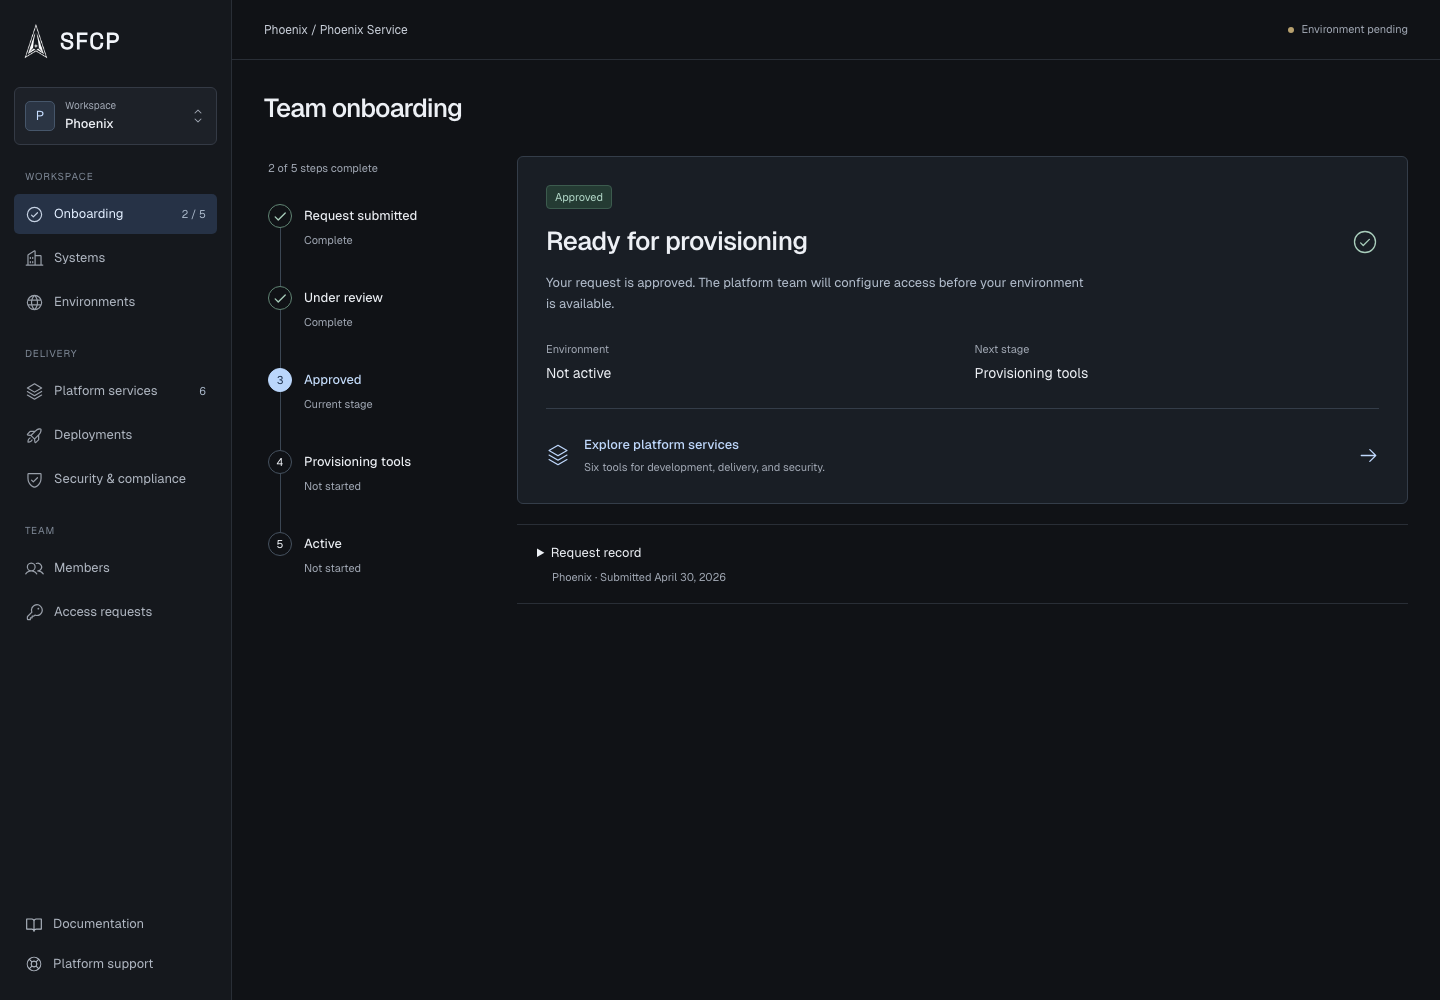
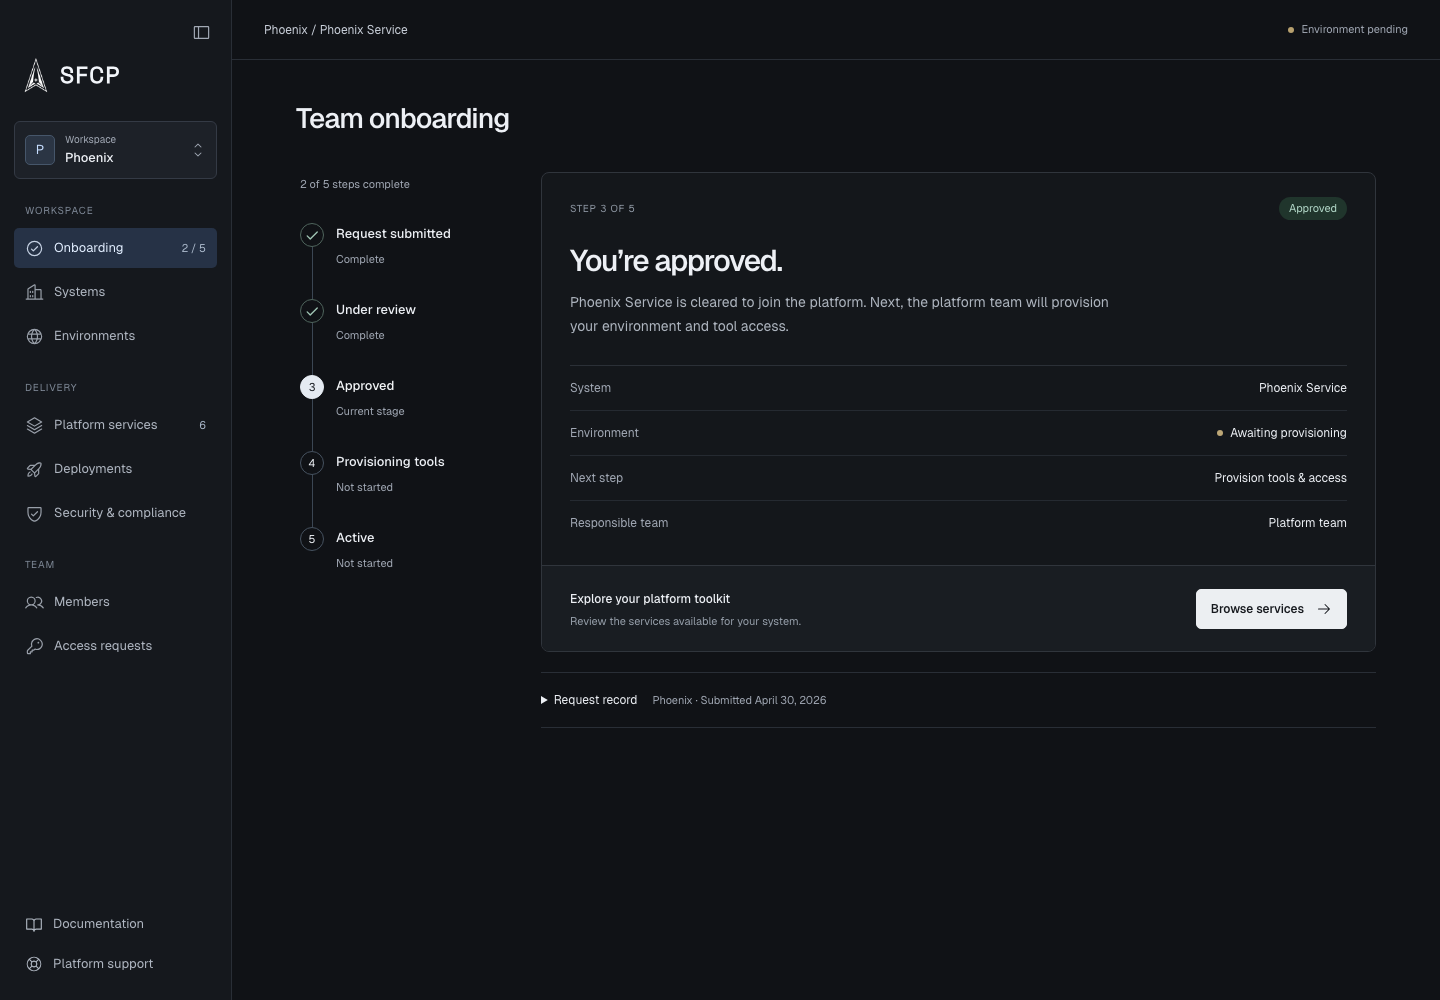
Refine onboarding and add collapsible SFCP navigation

diff --git a/src/components/studies/space-force.tsx b/src/components/studies/space-force.tsx
@@ -6,7 +6,7 @@ import Image from "next/image";
 import {
   ArrowRight, Check, CheckCircle, Cube, CaretUpDown, ArrowUpRight, Plus,
   GitBranch, ListChecks, MagnifyingGlass, Package, ShieldCheck,
-  Stack, Buildings, Globe, RocketLaunch, Users, Key, Lifebuoy, BookOpen, X,
+  Stack, Buildings, Globe, RocketLaunch, Users, Key, Lifebuoy, BookOpen, X, SidebarSimple,
 } from "@phosphor-icons/react";
 import styles from "./space-force.module.css";
 
@@ -28,6 +28,7 @@ const services = [
 ];
 
 export function SpaceForceStudy({ screen }: { screen: string }) {
+  const [collapsed, setCollapsed] = useState(false);
   const navDialog = useRef<HTMLDialogElement>(null);
   const [navDestination, setNavDestination] = useState("");
   const openDestination = (name: string) => { setNavDestination(name); navDialog.current?.showModal(); };
@@ -48,7 +49,8 @@ export function SpaceForceStudy({ screen }: { screen: string }) {
 
   return (
     <div className={styles.workspace}>
-      <aside className={styles.sidebar}>
+      <aside className={`${styles.sidebar} ${collapsed ? styles.sidebarCollapsed : ""}`}>
+        <button className={styles.collapseToggle} aria-label={collapsed ? "Expand sidebar" : "Collapse sidebar"} aria-expanded={!collapsed} onClick={()=>setCollapsed(!collapsed)} title={collapsed ? "Expand sidebar" : "Collapse sidebar"}><SidebarSimple size={19}/></button>
         <Link href="/studies/space-force/readiness" className={styles.brand} aria-label="Space Force Cloud Platform onboarding">
           <span className={styles.deltaMark}><Image src="/artifacts/redesigned/ussf-official-logo.png" alt="United States Space Force" width={200} height={272} className={styles.officialLogo} priority /></span>
           <span>SFCP</span>
@@ -67,18 +69,18 @@ export function SpaceForceStudy({ screen }: { screen: string }) {
         </div>
         <nav className={styles.navigation} aria-label="Platform workspace">
           <p className={styles.navLabel}>Workspace</p>
-          <Link href="/studies/space-force/readiness" className={!isServices ? styles.navActive : ""} aria-current={!isServices ? "page" : undefined}><CheckCircle size={19} />Onboarding<span className={styles.navCount}>2 / 5</span></Link>
-          <button onClick={()=>openDestination("Systems")}><Buildings size={19}/>Systems</button>
-          <button onClick={()=>openDestination("Environments")}><Globe size={19}/>Environments</button>
+          <Link title="Onboarding" aria-label="Onboarding" href="/studies/space-force/readiness" className={!isServices ? styles.navActive : ""} aria-current={!isServices ? "page" : undefined}><CheckCircle size={19} /><span className={styles.navText}>Onboarding</span><span className={styles.navCount}>2 / 5</span></Link>
+          <button title="Systems" aria-label="Systems" onClick={()=>openDestination("Systems")}><Buildings size={19}/><span className={styles.navText}>Systems</span></button>
+          <button title="Environments" aria-label="Environments" onClick={()=>openDestination("Environments")}><Globe size={19}/><span className={styles.navText}>Environments</span></button>
           <p className={styles.navLabel}>Delivery</p>
-          <Link href="/studies/space-force/services" className={isServices ? styles.navActive : ""} aria-current={isServices ? "page" : undefined}><Stack size={19} />Platform services<span className={styles.navCount}>6</span></Link>
-          <button onClick={()=>openDestination("Deployments")}><RocketLaunch size={19}/>Deployments</button>
-          <button onClick={()=>openDestination("Security & compliance")}><ShieldCheck size={19}/>Security &amp; compliance</button>
+          <Link title="Platform services" aria-label="Platform services" href="/studies/space-force/services" className={isServices ? styles.navActive : ""} aria-current={isServices ? "page" : undefined}><Stack size={19} /><span className={styles.navText}>Platform services</span><span className={styles.navCount}>6</span></Link>
+          <button title="Deployments" aria-label="Deployments" onClick={()=>openDestination("Deployments")}><RocketLaunch size={19}/><span className={styles.navText}>Deployments</span></button>
+          <button title="Security & compliance" aria-label="Security & compliance" onClick={()=>openDestination("Security & compliance")}><ShieldCheck size={19}/><span className={styles.navText}>Security &amp; compliance</span></button>
           <p className={styles.navLabel}>Team</p>
-          <button onClick={()=>openDestination("Members")}><Users size={19}/>Members</button>
-          <button onClick={()=>openDestination("Access requests")}><Key size={19}/>Access requests</button>
+          <button title="Members" aria-label="Members" onClick={()=>openDestination("Members")}><Users size={19}/><span className={styles.navText}>Members</span></button>
+          <button title="Access requests" aria-label="Access requests" onClick={()=>openDestination("Access requests")}><Key size={19}/><span className={styles.navText}>Access requests</span></button>
         </nav>
-        <div className={styles.supportNav}><button onClick={()=>openDestination("Documentation")}><BookOpen size={18}/>Documentation</button><button onClick={()=>openDestination("Platform support")}><Lifebuoy size={18}/>Platform support</button></div>
+        <div className={styles.supportNav}><button title="Documentation" aria-label="Documentation" onClick={()=>openDestination("Documentation")}><BookOpen size={18}/><span className={styles.navText}>Documentation</span></button><button title="Platform support" aria-label="Platform support" onClick={()=>openDestination("Platform support")}><Lifebuoy size={18}/><span className={styles.navText}>Platform support</span></button></div>
 
       </aside>
 
@@ -86,7 +88,7 @@ export function SpaceForceStudy({ screen }: { screen: string }) {
       <div className={styles.main}>
         <div className={styles.contextBar}><span>Phoenix <span>/</span> Phoenix Service</span><span className={styles.environmentStatus}><span />Environment pending</span></div>
 
-        <main id="main" className={styles.content}>
+        <main id="main" className={`${styles.content} ${!isServices ? styles.onboardingContent : ""}`}>
           <div className={styles.pageTitle}>
             <div><h1>{isServices ? "Platform services" : "Team onboarding"}</h1>{isServices && <p>Connect your system to platform-managed delivery and security tools.</p>}</div>
           </div>
@@ -135,22 +137,20 @@ export function SpaceForceStudy({ screen }: { screen: string }) {
 
               <div className={styles.readinessLayout}>
                 <section className={styles.openDetail} aria-live="polite">
-                  <div className={styles.statusLabel}>{selectedStage === 2 ? "Approved" : currentStage.state}</div>
+                  <div className={styles.stageDetailTop}><span>STEP {selectedStage + 1} OF 5</span><span className={styles.statusLabel}>{selectedStage === 2 ? "Approved" : currentStage.state}</span></div>
                   <div className={styles.detailHeading}>
-                    <h2>{selectedStage === 2 ? "Ready for provisioning" : currentStage.title}</h2>
-                    {selectedStage === 2 && <CheckCircle size={28} weight="light" aria-label="Approved" />}
+                    <h2>{selectedStage === 2 ? "You’re approved." : currentStage.title}</h2>
+
                   </div>
-                  <p className={styles.detailIntro}>{selectedStage === 2 ? "Your request is approved. The platform team will configure access before your environment is available." : currentStage.description}</p>
+                  <p className={styles.detailIntro}>{selectedStage === 2 ? "Phoenix Service is cleared to join the platform. Next, the platform team will provision your environment and tool access." : currentStage.description}</p>
                   {selectedStage === 2 ? <>
                     <dl className={styles.accessFacts}>
-                      <div><dt>Environment</dt><dd>Not active</dd></div>
-                      <div><dt>Next stage</dt><dd>Provisioning tools</dd></div>
+                      <div><dt>System</dt><dd>Phoenix Service</dd></div>
+                      <div><dt>Environment</dt><dd><span className={styles.pendingDot}/>Awaiting provisioning</dd></div>
+                      <div><dt>Next step</dt><dd>Provision tools &amp; access</dd></div>
+                      <div><dt>Responsible team</dt><dd>Platform team</dd></div>
                     </dl>
-                    <Link className={styles.serviceShortcut} href="/studies/space-force/services">
-                      <Stack size={24} weight="light" />
-                      <span><strong>Explore platform services</strong><span>Six tools for development, delivery, and security.</span></span>
-                      <ArrowRight size={21} />
-                    </Link>
+                    <div className={styles.onboardingAction}><div><strong>Explore your platform toolkit</strong><p>Review the services available for your system.</p></div><Link href="/studies/space-force/services">Browse services<ArrowRight size={16}/></Link></div>
                   </> : <div className={styles.otherStage}><p>{currentStage.detail}</p><p>{currentStage.next}</p></div>}
                 </section>
 

diff --git a/src/components/studies/space-force.module.css b/src/components/studies/space-force.module.css
@@ -37,3 +37,11 @@
 /* Align the step label with its marker, leaving the state on a second row. */
 .journey{padding:4px 0;border:0;border-radius:0;background:transparent}.journeyHeader{padding:0 4px;margin-bottom:20px}.stage{grid-template-rows:24px auto;align-content:start;row-gap:0;min-height:82px;background:none;border:0;color:inherit}.stageNumber{grid-column:1;grid-row:1;background:#101216}.stage strong{grid-column:2;grid-row:1;align-self:center;line-height:1.3;font-size:13px}.stageState{grid-column:2;grid-row:2;margin-top:4px;font-size:11px}.stageRail{top:32px;bottom:-8px}.requestRecord{background:transparent;border-left:0;border-right:0;border-radius:0}.pageTitle{margin-bottom:30px}
 @media(max-width:800px){.journey{padding:0}.stage{min-height:68px}.onboardingLayout{gap:28px}}
+
+/* Railway's focused setup panel and Vercel's compact project metadata. */
+.onboardingContent{max-width:1160px;padding:40px 40px 64px}.onboardingContent .pageTitle{margin-bottom:36px}.onboardingContent .pageTitle h1{font-size:28px;letter-spacing:-.035em}.onboardingContent .onboardingLayout{grid-template-columns:205px minmax(0,1fr);gap:40px}.onboardingContent .journeyHeader{margin-bottom:22px}.onboardingContent .stage{min-height:76px;padding-inline:4px}.onboardingContent .stage strong{font-weight:500}.onboardingContent .stageSelected strong{color:#f3f5f7}.onboardingContent .stageCurrent .stageNumber{background:#e5ebf2;border-color:#e5ebf2;color:#12161b}.onboardingContent .stageComplete .stageNumber{background:#101216;border-color:#4f655d;color:#a1c7b6}.onboardingContent .openDetail{padding:0;background:#14171b;border:1px solid #30353c;border-radius:8px;overflow:hidden}.stageDetailTop{display:flex;justify-content:space-between;align-items:center;padding:24px 28px 0;color:#9099a5;font-size:10px;letter-spacing:.08em}.stageDetailTop .statusLabel{margin:0;font-size:11px;letter-spacing:0;border:0;background:#20352c;border-radius:20px;padding:3px 10px}.onboardingContent .detailHeading{padding:22px 28px 0}.onboardingContent .detailHeading h2{font-size:30px;font-weight:550;letter-spacing:-.045em}.onboardingContent .detailIntro{padding:0 28px;margin:12px 0 26px;font-size:14px;line-height:1.7;max-width:620px;color:#aeb5bf}.onboardingContent .accessFacts{display:block;margin:0 28px;padding:0;border-top:1px solid #2b3037;border-bottom:0}.onboardingContent .accessFacts>div{display:flex;justify-content:space-between;align-items:center;gap:18px;padding:13px 0;border-bottom:1px solid #252a31}.onboardingContent .accessFacts>div:last-child{border:0}.onboardingContent .accessFacts dt{font-size:12px;margin:0}.onboardingContent .accessFacts dd{font-size:12px;display:flex;align-items:center;gap:7px;text-align:right}.pendingDot{width:6px;height:6px;background:#bda776;border-radius:50%;display:inline-block}.onboardingAction{padding:22px 28px;background:#191d22;border-top:1px solid #30353c;margin-top:20px;display:flex;align-items:center;justify-content:space-between;gap:20px}.onboardingAction strong{font-size:12px;font-weight:500}.onboardingAction p{font-size:11px;color:#969faa;margin-top:4px}.onboardingAction>a{display:flex;align-items:center;justify-content:center;gap:12px;padding:10px 14px;background:#eceff2;color:#16191e;border:1px solid #eceff2;border-radius:5px;font-size:12px;font-weight:550;white-space:nowrap}.onboardingAction>a:hover{background:white}.onboardingContent .otherStage{padding:0 28px 28px}.onboardingContent .requestRecord{padding:18px 0;margin-top:20px}.onboardingContent .requestRecord summary>span{display:inline;margin-left:12px}.onboardingContent .requestRecord summary{font-size:12px}
+@media(max-width:1100px){.onboardingContent{padding:30px 24px}.onboardingContent .onboardingLayout{grid-template-columns:170px minmax(0,1fr);gap:24px}.onboardingAction{align-items:flex-start;flex-direction:column}.onboardingAction>a{align-self:flex-end}}
+@media(max-width:800px){.onboardingContent .onboardingLayout{grid-template-columns:1fr}.onboardingContent .journey{border-bottom:1px solid #292e36;padding-bottom:18px}.onboardingContent .stage{min-height:62px}.onboardingContent .requestRecord summary>span{display:block;margin:6px 0 0 15px}.onboardingContent .detailHeading h2{font-size:27px}.stageDetailTop{padding:20px 20px 0}.onboardingContent .detailHeading{padding:20px 20px 0}.onboardingContent .detailIntro{padding:0 20px}.onboardingContent .accessFacts{margin:0 20px}.onboardingAction{padding:20px}.onboardingContent{padding:26px 20px}}
+
+.collapseToggle{display:flex;align-items:center;justify-content:center;align-self:flex-end;width:32px;height:32px;margin:-8px 0 10px;background:transparent;border:1px solid transparent;border-radius:4px;color:#a1a8b4}.collapseToggle:hover{background:#242a32;border-color:#343a45;color:#edf0f5}.sidebarCollapsed{width:72px;padding-inline:12px}.sidebarCollapsed .collapseToggle{align-self:center}.sidebarCollapsed .brand{justify-content:center;padding:0}.sidebarCollapsed .brand>span:last-child,.sidebarCollapsed .navText,.sidebarCollapsed .navCount,.sidebarCollapsed .teamIdentity,.sidebarCollapsed .teamCaret{display:none}.sidebarCollapsed .team{justify-content:center;padding:7px}.sidebarCollapsed .navigation a,.sidebarCollapsed .navigation button,.sidebarCollapsed .supportNav button{justify-content:center;padding:10px 0}.sidebarCollapsed .navLabel{font-size:0;height:19px;margin:8px 8px 0;padding:0;border-top:1px solid #30353c}.sidebarCollapsed .navLabel:first-child{display:none}.sidebarCollapsed .supportNav{padding-top:20px}.navText{min-width:0}
+@media(max-width:650px){.collapseToggle{grid-column:2;grid-row:1;justify-self:end;align-self:center;margin:0}.sidebar .brand{grid-row:1;grid-column:1}.sidebar .teamPicker{grid-column:1/-1}.sidebarCollapsed{width:100%;grid-template-columns:1fr auto}.sidebarCollapsed .brand{justify-content:flex-start}.sidebarCollapsed .brand>span:last-child{display:block}.sidebarCollapsed .navigation,.sidebarCollapsed .supportNav,.sidebarCollapsed .teamPicker{display:none}}
